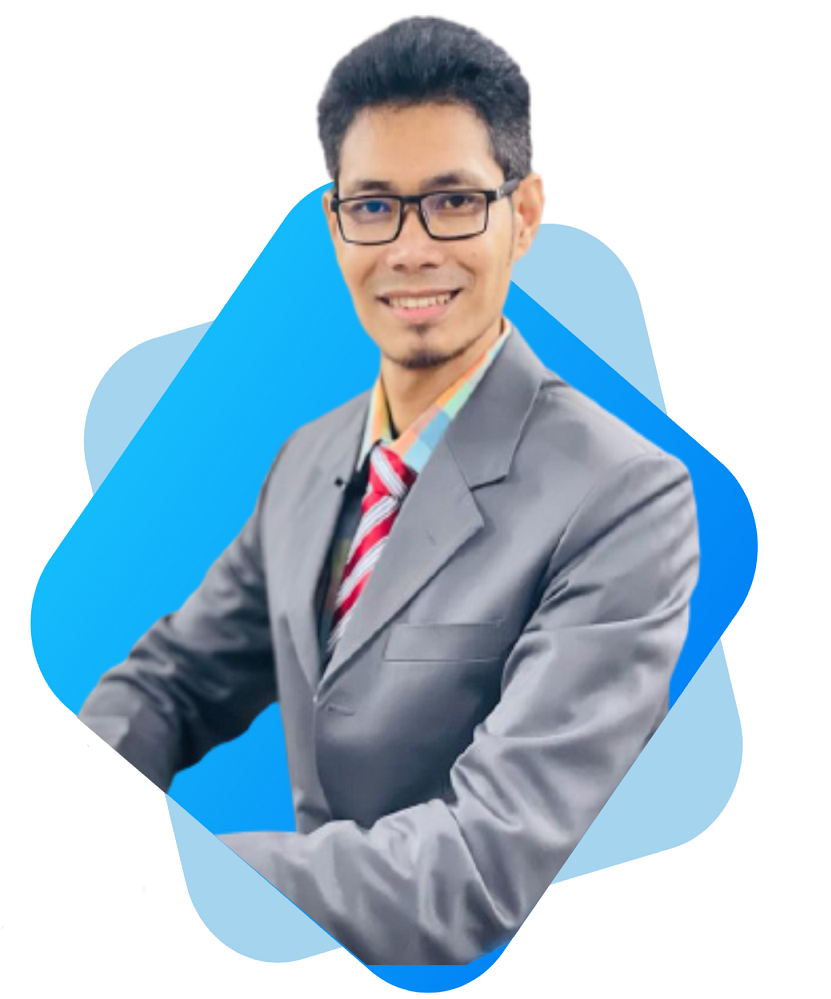
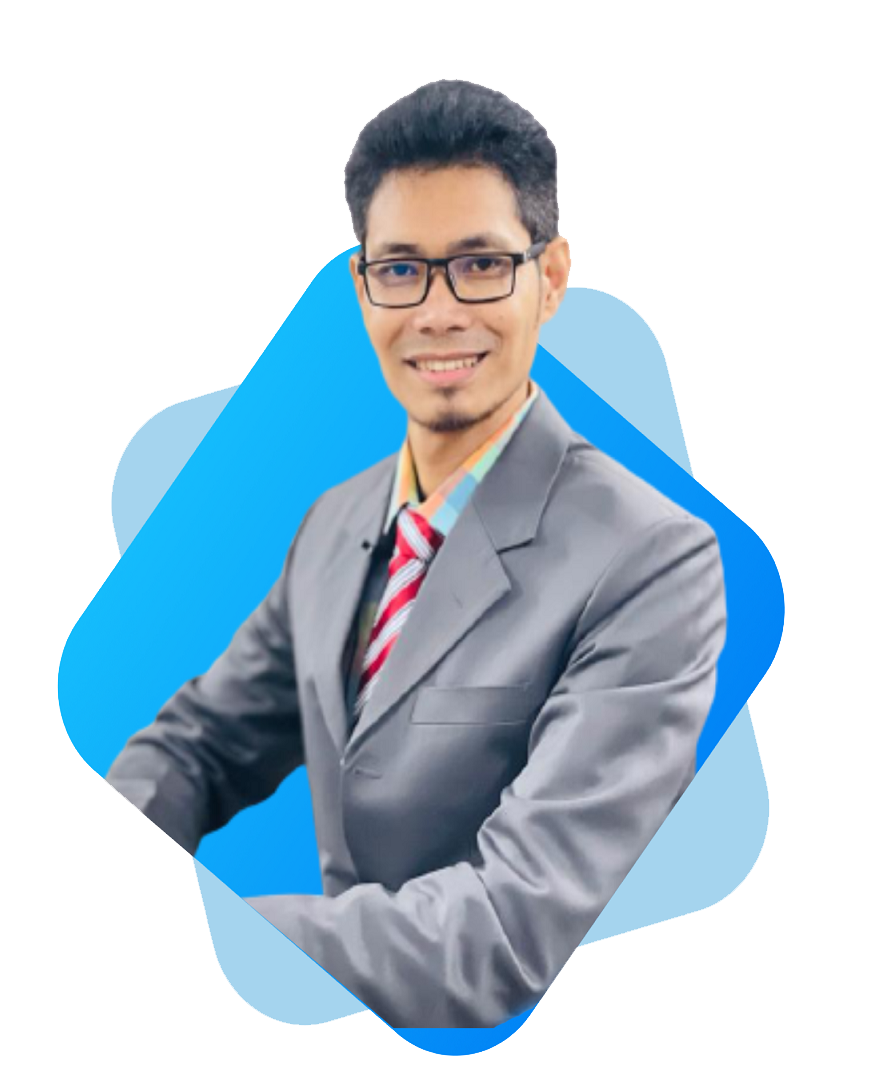
Finalized the project to go liv

diff --git a/style.css b/style.css
@@ -187,7 +187,14 @@ h3 {
 }
 
 /* Contact CSS */
-
+.contact {
+	padding-top: 12px;
+	background-image: url(images/shape-3.png);
+	background-repeat: no-repeat;
+	background-size: 10%;
+	background-position-x: 39%;
+	background-position-y: 4%;
+}
 .contact-form {
   width: 50%;
   margin: 0 auto;
